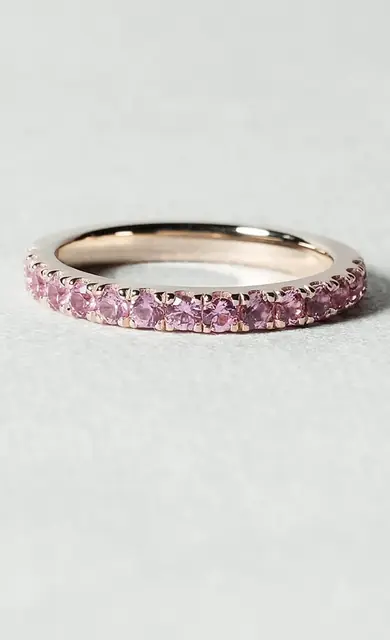
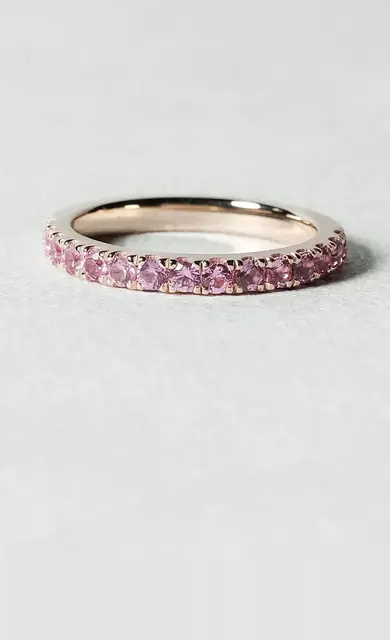
Fix landing page and mobile navigation differences from audit

Changed region(s): [[0.0615, 0.2812, 1.0, 0.5312]]

diff --git a/src/components/ui/FeatureCard.tsx b/src/components/ui/FeatureCard.tsx
@@ -14,6 +14,11 @@ type FeatureCardProps = {
   ctaOnMobile?: boolean;
   /** Figma's cards with a body line use a 16px desktop caption padding instead of 24. */
   compact?: boolean;
+  /**
+   * Below 1024px: the hairline above the title (12px from the rule to the title, 16px below) and no CTA, as the Diamonds mobile frame
+   * draws its feature cards. From 1024px the card is the usual title, hairline and CTA.
+   */
+  mobileRuleAboveTitle?: boolean;
   /** Size and aspect ratio of the card, which differ per use. */
   className?: string;
 };
@@ -22,7 +27,8 @@ type FeatureCardProps = {
  * Figma "Feature Card": a photo with a dark gradient, a centred title, optional body and a text CTA
  * over a hairline. The whole card is one link. Figma hides a chevron beside the CTA; it shows on hover.
  */
-export function FeatureCard({ title, body, ctaLabel, href, image, sizes, ctaOnMobile = true, compact = false, className }: FeatureCardProps) {
+export function FeatureCard({ title, body, ctaLabel, href, image, sizes, ctaOnMobile = true, compact = false, mobileRuleAboveTitle = false, className }: FeatureCardProps) {
+  const showCtaOnMobile = ctaOnMobile && !mobileRuleAboveTitle;
   return (
     <Link
       href={href}
@@ -33,11 +39,18 @@ export function FeatureCard({ title, body, ctaLabel, href, image, sizes, ctaOnMo
     >
       <Picture image={image} sizes={sizes} className="ui-transition absolute inset-0 -z-10 size-full rounded-4 object-cover" />
       <span aria-hidden="true" className="absolute inset-0 -z-10 bg-linear-to-b from-black-alpha-0 from-25% to-black-alpha-40 to-75%" />
-      <span className={cx("flex flex-col gap-space-1 py-space-3 ui-desktop:gap-space-2", compact ? "ui-desktop:py-space-4" : "ui-desktop:py-space-6")}>
+      <span
+        className={cx(
+          "flex flex-col gap-space-1 ui-desktop:gap-space-2",
+          // Figma draws the rule inside the caption's 12px top padding, so the padding is 12px less the 1px rule.
+          mobileRuleAboveTitle ? "border-t border-white-alpha-20 pt-[calc(var(--spacing-space-3)-1px)] pb-space-4 ui-desktop:border-t-0" : "py-space-3",
+          compact ? "ui-desktop:py-space-4" : "ui-desktop:py-space-6",
+        )}
+      >
         <h3 className="type-heading-sm ui-desktop:type-heading-md">{title}</h3>
         {body ? <span className="type-body-xs-regular mx-auto max-w-[30rem]">{body}</span> : null}
       </span>
-      <span className={cx("justify-center border-t border-white-alpha-20 pt-space-3 pb-space-4 ui-desktop:pt-space-4", ctaOnMobile ? "flex" : "hidden ui-desktop:flex")}>
+      <span className={cx("justify-center border-t border-white-alpha-20 pt-space-3 pb-space-4 ui-desktop:pt-space-4", showCtaOnMobile ? "flex" : "hidden ui-desktop:flex")}>
         <span className="type-overline-xs-medium relative py-space-1">
           {ctaLabel}
           <Icon

diff --git a/src/components/home/HeroModule.tsx b/src/components/home/HeroModule.tsx
@@ -24,13 +24,17 @@ export function HeroModule({ content }: { content: HeroModuleContent }) {
       <div className="relative isolate flex h-[40rem] flex-col items-center justify-end overflow-hidden px-space-5 ui-desktop:h-[45.25rem] ui-desktop:px-0">
         <Picture image={content.image} sizes={{ desktop: "100vw", mobile: "100vw" }} className="absolute inset-0 -z-10 size-full object-cover" />
         <div className="flex w-full flex-col items-center gap-space-5 rounded-t-8 border-b border-secondary-skin bg-secondary-skin px-space-5 pt-space-8 text-center text-primary-leather ui-desktop:w-[38.375rem] ui-desktop:gap-space-8 ui-desktop:border-0 ui-desktop:px-space-13 ui-desktop:pt-space-13">
-          <div className="flex flex-col items-center gap-space-3 ui-desktop:gap-space-8">
-            {content.overline ? <p className="type-overline-xs-medium">{content.overline}</p> : null}
-            <h2 id={headingId} className={SECTION_HEADING}>
-              <RichText value={content.heading} emClassName={SECTION_HEADING_EM} />
-            </h2>
+          {/* Title to body: 32px on desktop and 20px on mobile in every module frame, except the Engagement Rings Sky
+              Guarantee card on mobile (3587:123662), which draws 12px (mobileTitleGap "tight"). Body to button: 20 / 32. */}
+          <div className={`flex flex-col items-center ui-desktop:gap-space-8 ${content.mobileTitleGap === "tight" ? "gap-space-3" : "gap-space-5"}`}>
+            <div className="flex flex-col items-center gap-space-3 ui-desktop:gap-space-8">
+              {content.overline ? <p className="type-overline-xs-medium">{content.overline}</p> : null}
+              <h2 id={headingId} className={SECTION_HEADING}>
+                <RichText value={content.heading} emClassName={SECTION_HEADING_EM} />
+              </h2>
+            </div>
+            <p className="type-body-xs-regular max-w-[28.75rem] ui-desktop:type-body-sm-regular">{content.body}</p>
           </div>
-          <p className="type-body-xs-regular max-w-[28.75rem] ui-desktop:type-body-sm-regular">{content.body}</p>
           {content.inert ? (
             <ButtonText variant="secondary" size="responsive" className={content.landing ? LANDING_BUTTON : undefined}>
               {content.cta.label}

diff --git a/src/components/sections/LandingSections.tsx b/src/components/sections/LandingSections.tsx
@@ -80,7 +80,7 @@ export function GuaranteeIconsSection({ content }: { content: GuaranteeIcons }) 
   return (
     <section aria-labelledby={headingId} className={`bg-secondary-skin ${LANDING_SECTION}`}>
       {/* Figma's mobile overline here is 12/16 (overline-sm) on both breakpoints. */}
-      <SectionHeading id={headingId} overline={content.overline} heading={content.heading} overlineClassName="type-overline-sm-medium" />
+      <SectionHeading id={headingId} overline={content.overline} heading={content.heading} overlineSize="sm" />
       <ul className="site-container flex flex-col items-center gap-space-6 ui-desktop:flex-row ui-desktop:items-start">
         {content.items.map((item) => (
           <li key={item._key} className="flex w-full max-w-[21.875rem] flex-1 ui-desktop:max-w-none">
@@ -191,10 +191,12 @@ export function DiamondInspectionSection({ content }: { content: DiamondInspecti
           </h2>
           <p className="type-body-sm-regular ui-desktop:type-body-md-regular">{content.body}</p>
         </div>
-        <ol className="flex flex-col gap-space-4 self-stretch">
+        {/* Figma 3565:97438 / 3587:123850: 48px circles, 32px apart on desktop and 16px on mobile, each step's text centred
+            on its circle; 40px above the first circle and 48px below the last on desktop, 24 and 32 on mobile. */}
+        <ol className="flex flex-col gap-space-4 self-stretch py-space-2 ui-desktop:gap-space-8 ui-desktop:py-space-4">
           {content.steps.map((step, index) => (
-            <li key={step} className="flex items-center gap-space-4 py-space-2 ui-desktop:h-space-15 ui-desktop:py-0">
-              <span aria-hidden="true" className="type-heading-caps-md flex size-space-12 shrink-0 items-center justify-center rounded-full border border-secondary-gold pb-0.5">
+            <li key={step} className="flex items-center gap-space-4">
+              <span aria-hidden="true" className="type-heading-caps-md flex size-space-11 shrink-0 items-center justify-center rounded-full border border-secondary-gold pb-0.5">
                 {index + 1}
               </span>
               <span className="type-body-sm-medium flex-1 ui-desktop:type-body-md-medium">{step}</span>

diff --git a/src/content/landing/shared.ts b/src/content/landing/shared.ts
@@ -25,8 +25,16 @@ export const customerStories = () => homeSection("customerStories", "stories");
 export const reviews = () => ({ ...homeSection("reviews", "reviews"), landing: true });
 export const faqs = () => ({ ...homeSection("faqs", "faqs"), landing: true });
 
-/** Home's "the Sky Guarantee" module; flushTop where Figma butts it against the Reviews band. */
-export const guaranteeModule = (flushTop?: HeroModule["flushTop"]): HeroModule => ({ ...homeSection("heroModule", "guarantee"), flushTop, landing: true });
+/**
+ * Home's "the Sky Guarantee" module; flushTop where Figma butts it against the Reviews band. The Engagement Rings
+ * mobile frame (3587:123662) crops the photo tighter than Home's (3587:124706), so the landing copy has its own
+ * mobile image; desktop is the same crop on both.
+ */
+export const guaranteeModule = (flushTop?: HeroModule["flushTop"]): HeroModule => {
+  const home = homeSection("heroModule", "guarantee");
+  // Its mobile card also has 12px from title to body (Home's has 20; Consult and Moissanite 20).
+  return { ...home, flushTop, landing: true, mobileTitleGap: "tight", image: { ...home.image, mobile: "guarantee-er-m" } };
+};
 
 /**
  * "Consult with our Experts". Figma's button starts a live chat, which has nothing to connect to: shown as
@@ -134,4 +142,9 @@ export const menCard = {
   image: { desktop: "card-mens-d", mobile: "card-mens-m", alt: "A man in a navy suit wearing a gold band and a watch" },
 } as const;
 
-export const couplePhoto = { desktop: "card-questions-d", mobile: "card-questions-m", alt: "Two hands held together, one wearing an engagement ring" } as const;
+/**
+ * The couple photo on the Women's cards. Desktop uses the product page's crop on both pages; on mobile each
+ * frame crops it differently (Engagement Rings 3587:123620, Fine Jewelry 3587:124091), so each has its own file.
+ */
+export const couplePhoto = (mobile: "card-women-er-m" | "card-women-fj-m") =>
+  ({ desktop: "card-questions-d", mobile, alt: "Two hands held together, one wearing an engagement ring" }) as const;

diff --git a/src/components/sections/SectionHeading.tsx b/src/components/sections/SectionHeading.tsx
@@ -1,31 +1,34 @@
 import { SECTION_HEADING, SECTION_HEADING_EM } from "@/components/home/styles";
 import { RichText, type RichSpan } from "@/components/ui/RichText";
-import { cx } from "@/components/ui/shared";
 
 /** Desktop card width for four cards across the content width (the landing carousels and rows). */
 export const CARD_W = "(100cqw - 2 * var(--grid-margin) - 3 * var(--spacing-space-6)) / 4";
 export const CARD_ITEM = "w-[18.125rem] ui-desktop:w-[calc((100cqw-2*var(--grid-margin)-3*var(--spacing-space-6))/4)]";
 
 /**
- * The landing pages' standard heading block: optional overline (10/14 mobile, 12/16 desktop), the section h2
- * (caps-lg / caps-xl, one italic word) and an optional body line, centred.
+ * The landing pages' standard heading block: optional overline (10/14 mobile, 12/16 desktop; `overlineSize="sm"`
+ * for 12/16 at both, as the Guarantee section), the section h2 (caps-lg / caps-xl, one italic word) and an
+ * optional body line, centred. The overline gets one type class per breakpoint: two competing classes on one
+ * element resolve by stylesheet order, not by the order they are written.
  */
 export function SectionHeading({
   id,
   overline,
   heading,
   body,
-  overlineClassName,
+  overlineSize = "responsive",
 }: {
   id: string;
   overline?: string;
   heading: RichSpan[];
   body?: string;
-  overlineClassName?: string;
+  overlineSize?: "responsive" | "sm";
 }) {
   return (
     <div className="site-container flex flex-col items-center gap-space-3 text-center text-primary-leather ui-desktop:gap-space-4">
-      {overline ? <p className={cx("type-overline-xs-medium ui-desktop:type-overline-sm-medium", overlineClassName)}>{overline}</p> : null}
+      {overline ? (
+        <p className={overlineSize === "sm" ? "type-overline-sm-medium" : "type-overline-xs-medium ui-desktop:type-overline-sm-medium"}>{overline}</p>
+      ) : null}
       <h2 id={id} className={`max-w-[51.5rem] ${SECTION_HEADING}`}>
         <RichText value={heading} emClassName={SECTION_HEADING_EM} />
       </h2>

diff --git a/src/app/styleguide/components/page.tsx b/src/app/styleguide/components/page.tsx
@@ -1484,6 +1484,11 @@ export default function ComponentsPage() {
               Search panel: Figma&rsquo;s search frame shows &ldquo;Education&rdquo; in hazel with no underline, a leftover from the Education menu
               frame it was copied from. Built with all nav items in their default colour while search is open.
             </li>
+            <li>
+              &ldquo;Have Questions?&rdquo; card photo on mobile (product page and Fine Jewelry). Figma squeezes the desktop crop to about 65% of
+              its width to fill the narrower mobile card. Built undistorted with the same framing (same centre and height), so the hands keep
+              their shape and a little of the scene at the sides is cropped.
+            </li>
           </ul>
         </Section>
 
@@ -1588,6 +1593,7 @@ export default function ComponentsPage() {
               Filters sheet and desktop Metal panel: the badge is at 15px on both Yellow Gold tiles and 8px on the other five. Which is
               intended, and should it change on selection?
             </li>
+            <li>Title-to-body gap is 12px on the Sky Guarantee card and 20px on the Consult module on the same page. Which is intended?</li>
           </ul>
         </Section>
 
@@ -1611,6 +1617,10 @@ export default function ComponentsPage() {
             </li>
             <li>Quick Checkout (on the Accordion page): product-page content with unnamed variants (Open3, Open4), held for the product page.</li>
             <li>Landing page live chat and text actions (no chat or messaging service to connect to).</li>
+            <li>
+              Fine Jewelry Birthday card photo: the build uses a tighter export than Figma&rsquo;s original (card 3565:97698); waiting for Rob to
+              export the image layer.
+            </li>
           </ul>
         </Section>
       </main>

diff --git a/src/content/landing/diamonds.ts b/src/content/landing/diamonds.ts
@@ -31,8 +31,8 @@ export const diamondsPage: LandingPage = {
       heading: [span("Choose "), em("your"), br(), span(" Diamond Type")],
       body: "Natural or lab-grown: both are real diamonds.",
       cards: [
-        { _key: "natural", icon: "natural-diamond", title: "Natural\nDiamonds", body: "Diamonds formed in the earth.", cta: { label: "Shop Natural Diamonds", href: `${SHOP}?type=natural` } },
-        { _key: "lab-grown", icon: "lab-diamond", title: "Lab-Grown\nDiamonds", body: "Diamonds grown above ground.", cta: { label: "Shop Lab-Grown Diamonds", href: `${SHOP}?type=lab-grown` } },
+        { _key: "natural", icon: "natural-diamond", title: "Natural\nDiamonds", body: "Celebrate your love with our stunning selection of engagement ring designs.", cta: { label: "Shop Natural Diamonds", href: `${SHOP}?type=natural` } },
+        { _key: "lab-grown", icon: "lab-diamond", title: "Lab-Grown\nDiamonds", body: "Browse our dazzling diamond collection and experience the brilliance in every piece.", cta: { label: "Shop Lab-Grown Diamonds", href: `${SHOP}?type=lab-grown` } },
       ],
     },
     {
@@ -66,6 +66,7 @@ export const diamondsPage: LandingPage = {
       _key: "diamond-jewelry",
       heading: "Shop diamond jewelry",
       padTop: true,
+      mobileCaption: "rule-title",
       cards: homeFeatures.cards.map((card, index) => ({
         ...card,
         ...[

diff --git a/src/components/site/MegaMenu.tsx b/src/components/site/MegaMenu.tsx
@@ -25,7 +25,7 @@ export function MenuGroupBlock({
       <Heading id={headingId} className="type-overline-xs-medium text-primary-leather">
         {group.title}
       </Heading>
-      <ul aria-labelledby={headingId} className={group.columns === 2 ? "grid grid-cols-2" : "flex flex-col"}>
+      <ul aria-labelledby={headingId} className={groupColumns(group)}>
         {group.links.map((link) => (
           <li key={link._key} className="flex min-w-0">
             <MenuLinkItem link={link} compact={compact} />
@@ -35,6 +35,13 @@ export function MenuGroupBlock({
       {group.footerLink ? <GroupFooterLink link={group.footerLink} /> : null}
     </div>
   );
+}
+
+/** Desktop column count everywhere, with the mobile menu's own count below 1024px where Figma gives one. */
+function groupColumns(group: MenuGroup) {
+  const mobile = group.mobileColumns ?? group.columns;
+  const desktop = group.columns;
+  return cx(mobile === 2 ? "grid grid-cols-2" : "flex flex-col", desktop !== mobile && (desktop === 2 ? "ui-desktop:grid ui-desktop:grid-cols-2" : "ui-desktop:flex ui-desktop:flex-col"));
 }
 
 function GroupFooterLink({ link }: { link: NavLink }) {

diff --git a/src/content/home.ts b/src/content/home.ts
@@ -47,6 +47,11 @@ export type FeatureGrid = {
   heading: string;
   /** Desktop top padding: Home's grid has none (it follows the category strip); the Diamonds frame has 80px. */
   padTop?: boolean;
+  /**
+   * Mobile card caption. Home's mobile frame: title, then a rule and Shop Now. "rule-title" is the Diamonds mobile
+   * frame (3587:123850): a rule, then the title under it, and no Shop Now. Desktop is the same for both.
+   */
+  mobileCaption?: "rule-title";
   cards: Array<{ _key: string; title: string; href: string; image: ImageRef; wide?: boolean }>;
   ctaLabel: string;
 };
@@ -58,6 +63,8 @@ export type HeroModule = {
   _key: string;
   /** No top padding on that breakpoint: Figma's landing pages butt the module against the Reviews band above. */
   flushTop?: "desktop" | "mobile" | "both";
+  /** "tight": 12px from the title to the body on mobile instead of 20, where the module's own frame draws 12. */
+  mobileTitleGap?: "tight";
   /**
    * Built from Figma's landing page frames: on mobile their outline button is a fixed 160px (Home's hugs its label).
    */

diff --git a/src/content/site.ts b/src/content/site.ts
@@ -29,8 +29,10 @@ export type MenuLink = NavLink & { media?: MenuMedia };
 export type MenuGroup = {
   _key: string;
   title: string;
-  /** Desktop and mobile both show two-column groups as a two-column grid. */
+  /** Columns in the desktop mega menu, and in the mobile menu unless `mobileColumns` says otherwise. */
   columns: 1 | 2;
+  /** The mobile menu's own column count where its Figma frame differs from the desktop one. */
+  mobileColumns?: 1 | 2;
   links: MenuLink[];
   /** Text link under the group, such as "Shop More Styles". */
   footerLink?: NavLink;
@@ -290,7 +292,9 @@ const weddingBandsMenu: MegaMenu = {
     {
       _key: "for-him",
       title: "For Him",
+      // Figma: two columns in the desktop mega menu (3565:99947), one in the mobile menu (3587:124991).
       columns: 2,
+      mobileColumns: 1,
       links: (
         [
           ["Classic", "band-classic"],

diff --git a/src/content/landing-image-manifest.ts b/src/content/landing-image-manifest.ts
@@ -123,6 +123,37 @@ export const landingImageManifest = {
       "h": 1321
     }
   ],
+  "card-women-er-m": [
+    {
+      "src": "/images/landing/card-women-er-m-350.webp",
+      "w": 350,
+      "h": 438
+    },
+    {
+      "src": "/images/landing/card-women-er-m-700.webp",
+      "w": 700,
+      "h": 876
+    }
+  ],
+  "card-women-fj-m": [
+    {
+      "src": "/images/landing/card-women-fj-m-350.webp",
+      "w": 350,
+      "h": 438
+    },
+    {
+      "src": "/images/landing/card-women-fj-m-700.webp",
+      "w": 700,
+      "h": 876
+    }
+  ],
+  "guarantee-er-m": [
+    {
+      "src": "/images/landing/guarantee-er-m-390.webp",
+      "w": 390,
+      "h": 640
+    }
+  ],
   "module-moissanite-m": [
     {
       "src": "/images/landing/module-moissanite-m-390.webp",

diff --git a/src/content/landing/fine-jewelry.ts b/src/content/landing/fine-jewelry.ts
@@ -47,7 +47,7 @@ export const fineJewelryPage: LandingPage = {
       overline: "For Him, For Her, Forever in Style",
       heading: [span("Fine Jewelry "), em("for"), span(" men & women")],
       cards: [
-        { _key: "womens", title: "Women’s Fine Jewelry", body: "Rings, necklaces, earrings and bracelets.", cta: { label: "Shop for her", href: "/fine-jewelry/women/" }, image: couplePhoto },
+        { _key: "womens", title: "Women’s Fine Jewelry", body: "Rings, necklaces, earrings and bracelets.", cta: { label: "Shop for her", href: "/fine-jewelry/women/" }, image: couplePhoto("card-women-fj-m") },
         { ...menCard, title: "Men’s Fine Jewelry", body: "Bands and pieces for him.", cta: { label: "Shop for him", href: "/fine-jewelry/men/" } },
       ],
     },
